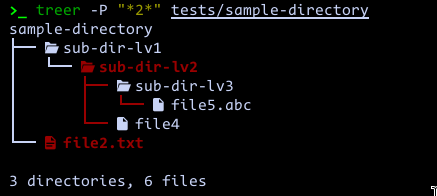
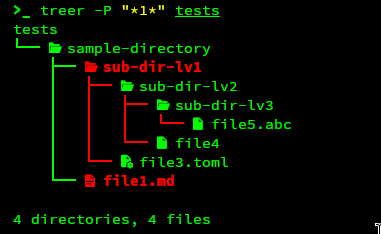
fix incorrect file count

diff --git a/tests/cli_test.rs b/tests/cli_test.rs
@@ -21,7 +21,7 @@ fn test_print_default() {
 ├──  file1.md
 └──  file2.txt
 
-3 directories, 8 files
+3 directories, 5 files
 "#;
     assert_eq!(result, expected);
 }
@@ -49,7 +49,7 @@ fn test_print_hidden() {
 ├──  file1.md
 └──  file2.txt
 
-4 directories, 11 files
+4 directories, 7 files
 "#;
     assert_eq!(result, expected);
 }
@@ -64,7 +64,7 @@ fn test_match_pattern() {
     let _ = print_tree_with_writer(path, &opts, &mut buffer);
 
     let result = String::from_utf8(buffer).expect("Not valid UTF-8");
-    let expected = "sample-directory\n├── \u{1b}[1;31m\u{e5fe} sub-dir-lv1\u{1b}[0m\n│   \u{1b}[31m├── \u{1b}[0m\u{e5fe} sub-dir-lv2\n│   \u{1b}[31m│   \u{1b}[0m\u{1b}[31m├── \u{1b}[0m\u{e5fe} sub-dir-lv3\n│   \u{1b}[31m│   \u{1b}[0m\u{1b}[31m│   \u{1b}[0m\u{1b}[31m└── \u{1b}[0m\u{f0214} file5.abc\n│   \u{1b}[31m│   \u{1b}[0m\u{1b}[31m└── \u{1b}[0m\u{f0214} file4\n│   \u{1b}[31m└── \u{1b}[0m\u{f107b} file3.toml\n└── \u{1b}[1;31m\u{f0219} file1.md\u{1b}[0m\n\n3 directories, 7 files\n";
+    let expected = "sample-directory\n├── \u{1b}[1;31m\u{e5fe} sub-dir-lv1\u{1b}[0m\n│   \u{1b}[31m├── \u{1b}[0m\u{e5fe} sub-dir-lv2\n│   \u{1b}[31m│   \u{1b}[0m\u{1b}[31m├── \u{1b}[0m\u{e5fe} sub-dir-lv3\n│   \u{1b}[31m│   \u{1b}[0m\u{1b}[31m│   \u{1b}[0m\u{1b}[31m└── \u{1b}[0m\u{f0214} file5.abc\n│   \u{1b}[31m│   \u{1b}[0m\u{1b}[31m└── \u{1b}[0m\u{f0214} file4\n│   \u{1b}[31m└── \u{1b}[0m\u{f107b} file3.toml\n└── \u{1b}[1;31m\u{f0219} file1.md\u{1b}[0m\n\n3 directories, 4 files\n";
     assert_eq!(result, expected);
 
     opts.patterns.push(glob::Pattern::new("*lv*").unwrap());
@@ -72,7 +72,7 @@ fn test_match_pattern() {
     let _ = print_tree_with_writer(path, &opts, &mut buffer);
 
     let result = String::from_utf8(buffer).expect("Not valid UTF-8");
-    let expected = "sample-directory\n├── \u{1b}[1;31m\u{e5fe} sub-dir-lv1\u{1b}[0m\n│   \u{1b}[31m├── \u{1b}[0m\u{1b}[1;31m\u{e5fe} sub-dir-lv2\u{1b}[0m\n│   \u{1b}[31m│   \u{1b}[0m\u{1b}[31m├── \u{1b}[0m\u{1b}[1;31m\u{e5fe} sub-dir-lv3\u{1b}[0m\n│   \u{1b}[31m│   \u{1b}[0m\u{1b}[31m│   \u{1b}[0m\u{1b}[31m└── \u{1b}[0m\u{f0214} file5.abc\n│   \u{1b}[31m│   \u{1b}[0m\u{1b}[31m└── \u{1b}[0m\u{f0214} file4\n│   \u{1b}[31m└── \u{1b}[0m\u{f107b} file3.toml\n└── \u{1b}[1;31m\u{f0219} file1.md\u{1b}[0m\n\n3 directories, 7 files\n";
+    let expected = "sample-directory\n├── \u{1b}[1;31m\u{e5fe} sub-dir-lv1\u{1b}[0m\n│   \u{1b}[31m├── \u{1b}[0m\u{1b}[1;31m\u{e5fe} sub-dir-lv2\u{1b}[0m\n│   \u{1b}[31m│   \u{1b}[0m\u{1b}[31m├── \u{1b}[0m\u{1b}[1;31m\u{e5fe} sub-dir-lv3\u{1b}[0m\n│   \u{1b}[31m│   \u{1b}[0m\u{1b}[31m│   \u{1b}[0m\u{1b}[31m└── \u{1b}[0m\u{f0214} file5.abc\n│   \u{1b}[31m│   \u{1b}[0m\u{1b}[31m└── \u{1b}[0m\u{f0214} file4\n│   \u{1b}[31m└── \u{1b}[0m\u{f107b} file3.toml\n└── \u{1b}[1;31m\u{f0219} file1.md\u{1b}[0m\n\n3 directories, 4 files\n";
     assert_eq!(result, expected);
 }
 
@@ -91,7 +91,7 @@ fn test_exclude_patterns() {
 │   └──  file3.toml
 └──  file1.md
 
-1 directory, 3 files
+1 directory, 2 files
 "#;
     assert_eq!(result, expected);
 
@@ -109,7 +109,7 @@ fn test_exclude_patterns() {
 │       └──  file4
 └──  file1.md
 
-2 directories, 4 files
+2 directories, 2 files
 "#;
     assert_eq!(result, expected);
 }
@@ -133,7 +133,7 @@ fn test_max_level() {
 ├──  file1.md
 └──  file2.txt
 
-3 directories, 7 files
+3 directories, 4 files
 "#;
     assert_eq!(result, expected);
 
@@ -149,7 +149,7 @@ fn test_max_level() {
 ├──  file1.md
 └──  file2.txt
 
-2 directories, 5 files
+2 directories, 3 files
 "#;
     assert_eq!(result, expected);
 }
@@ -178,7 +178,7 @@ fn test_combination() {
 |--- .hidden.lock
 +--- file1.md
 
-3 directories, 6 files
+3 directories, 3 files
 "#;
     assert_eq!(result, expected);
 
@@ -187,6 +187,6 @@ fn test_combination() {
     let _ = print_tree_with_writer(path, &opts, &mut buffer);
 
     let result = String::from_utf8(buffer).expect("Not valid UTF-8");
-    let expected = "sample-directory\n+---\u{1b}[1;31m\u{e5fe} sub-dir-lv1\u{1b}[0m\n    \u{1b}[31m+---\u{1b}[0m\u{1b}[1;31m\u{e5fe} sub-dir-lv2\u{1b}[0m\n        \u{1b}[31m+---\u{1b}[0m\u{f0214} file4\n\n2 directories, 3 files\n";
+    let expected = "sample-directory\n+---\u{1b}[1;31m\u{e5fe} sub-dir-lv1\u{1b}[0m\n    \u{1b}[31m+---\u{1b}[0m\u{1b}[1;31m\u{e5fe} sub-dir-lv2\u{1b}[0m\n        \u{1b}[31m+---\u{1b}[0m\u{f0214} file4\n\n2 directories, 1 file\n";
     assert_eq!(result, expected);
 }

diff --git a/src/cmd/traversal.rs b/src/cmd/traversal.rs
@@ -116,7 +116,7 @@ fn traverse_directory(
                 let name = path.file_name().and_then(|name| name.to_str());
                 check_valid_entry(&path, name, opts, depth + 1)
             } else {
-                // Use pre process set to filter
+                // Use pre-process set to filter
                 display_entries.contains(&entry.path().display().to_string())
             }
         })
@@ -182,7 +182,6 @@ fn traverse_directory(
         )?;
 
         writeln!(writer, "{line}")?;
-        stats.1 += 1;
 
         if entry.file_type()?.is_dir() {
             stats.0 += 1;
@@ -200,6 +199,8 @@ fn traverse_directory(
                 stats,
                 &next_indent_state,
             )?;
+        } else {
+            stats.1 += 1;
         }
     }
     Ok(())
